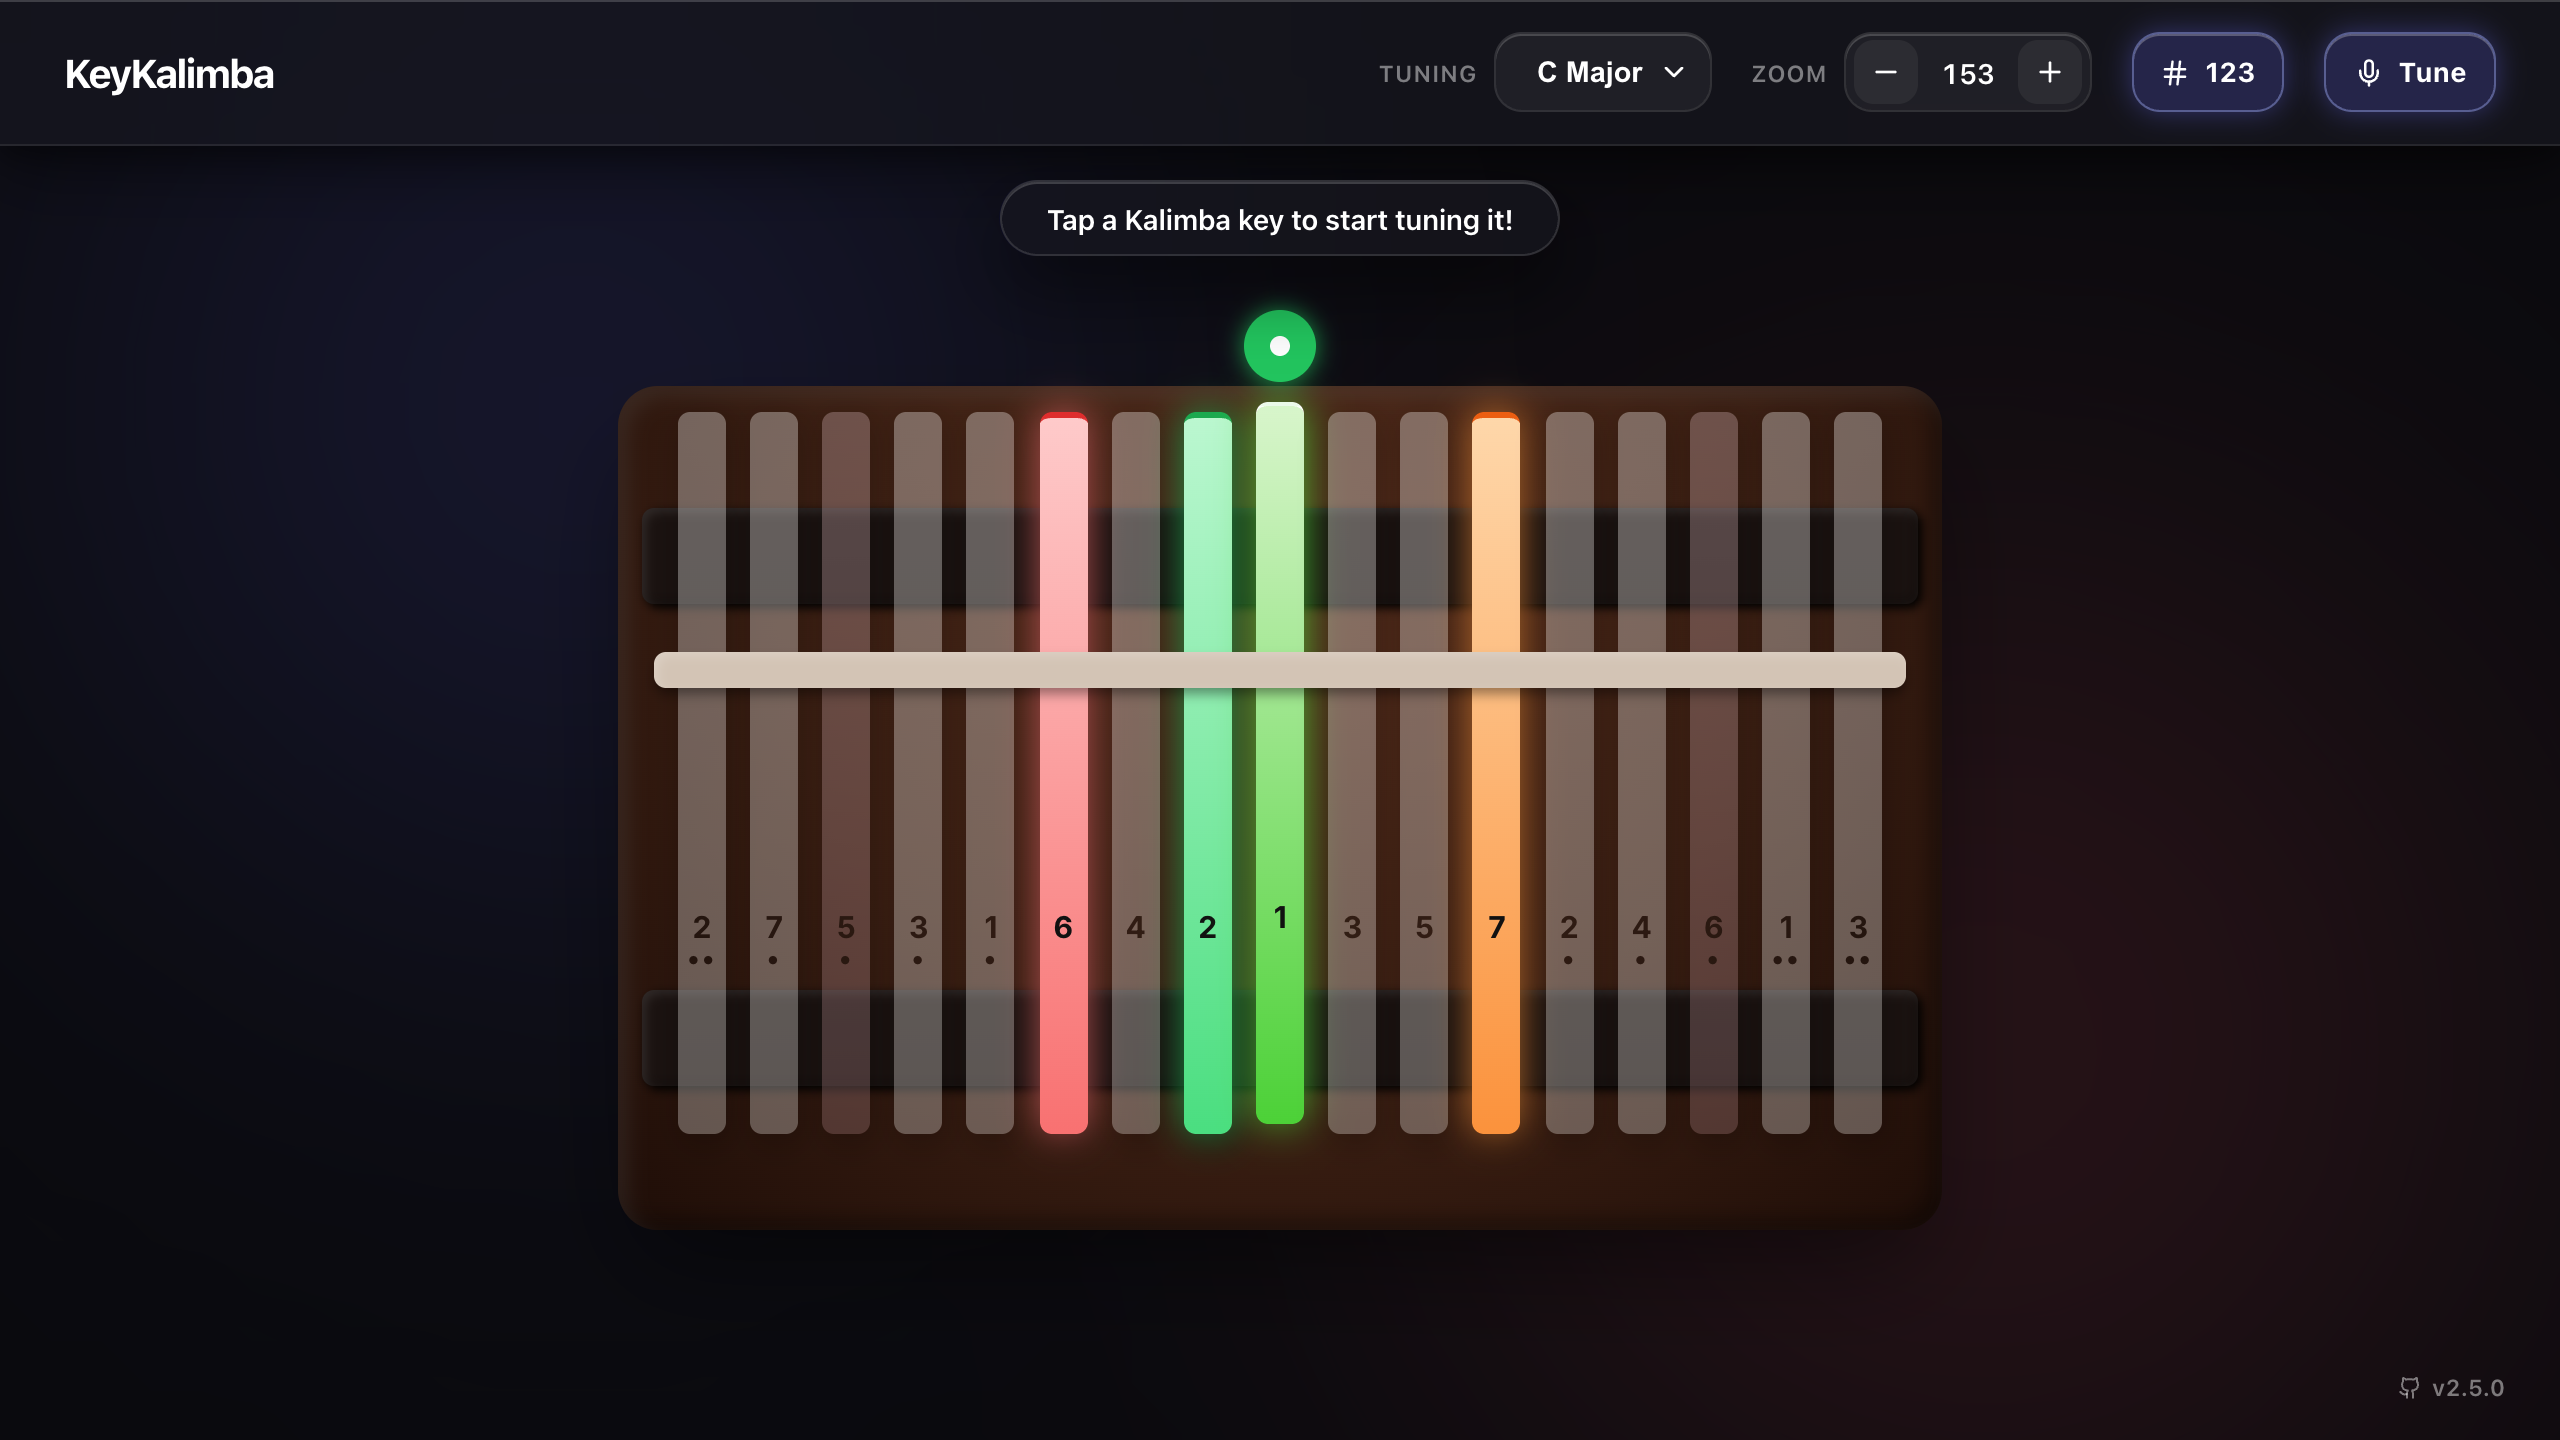
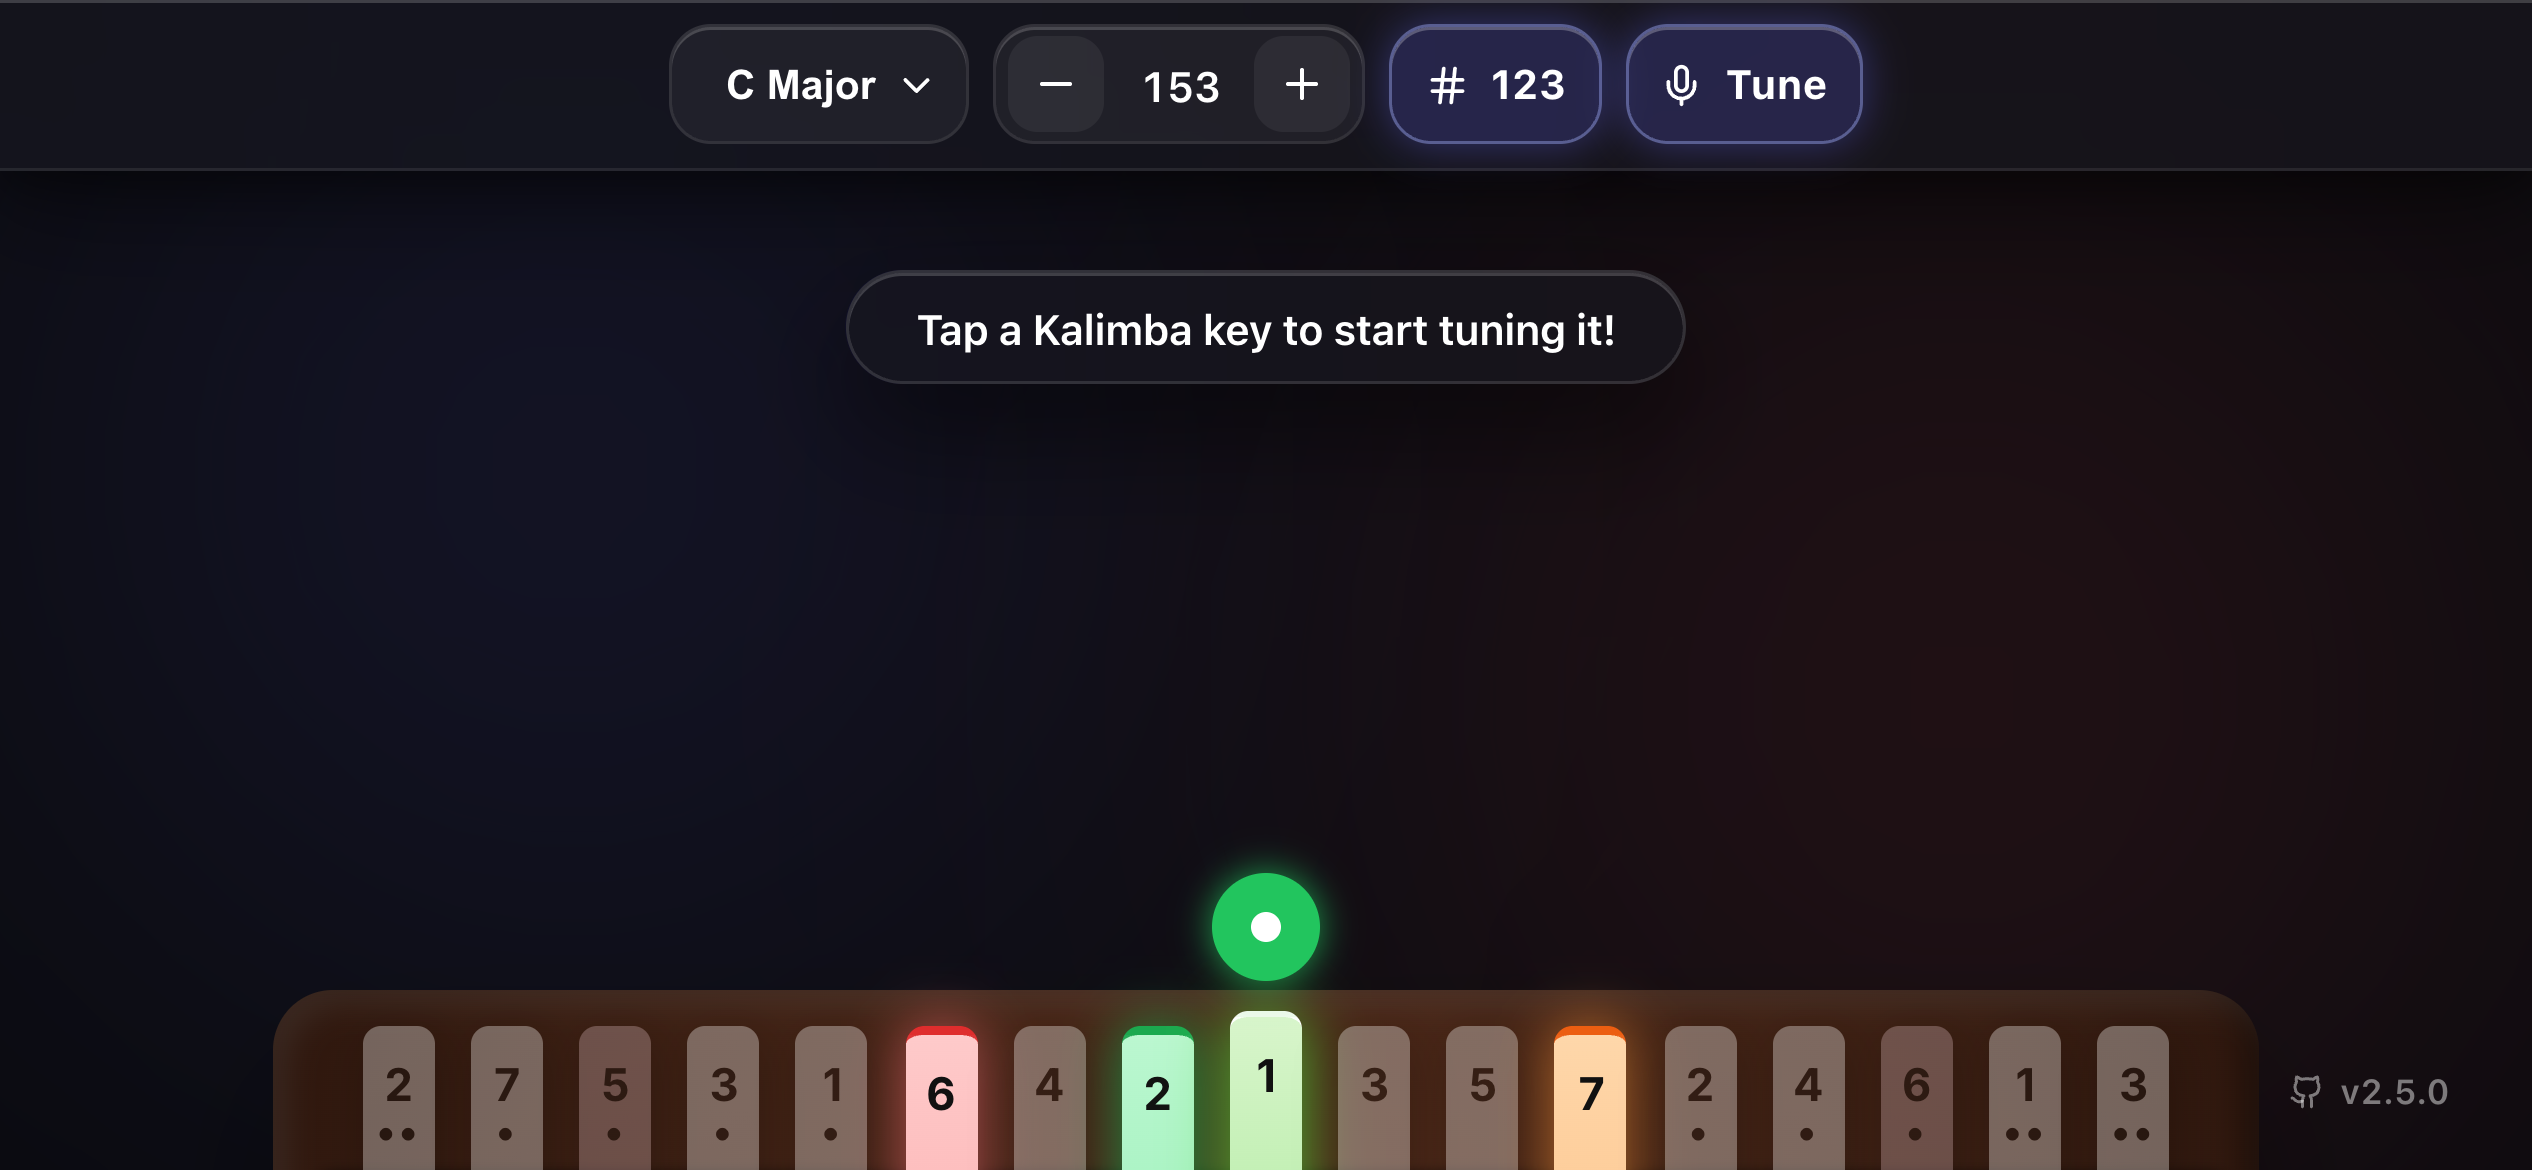
docs: update screenshots to mobile landscape with live falling notes and clean up README emojis
- Recaptured screenshots in authentic iPhone Landscape format (844x390 @ 3x Retina)
- Captured main playing screen with live falling notes and glowing key strikes
- Cleaned up README formatting and removed excess emojis for a timeless presentation

diff --git a/README.md b/README.md
@@ -1,21 +1,21 @@
 # Key Kalimba
 
-**Key Kalimba** is an interactive, web-based 17-key Kalimba trainer and tuner designed for musicians, learners, and hobbyists. Play along with falling notes, load custom MIDI songs, and tune your physical instrument with built-in pitch detection—directly in your browser on desktop, tablet, and mobile.
+**Key Kalimba** is an interactive, web-based 17-key Kalimba trainer and tuner. Play along with falling notes, load custom MIDI songs, and tune your physical instrument with built-in pitch detection—directly in your browser on desktop, tablet, and mobile devices.
 
 ---
 
-## ✨ Features
+## Features
 
-- 🎵 **Falling Notes Visualizer**: Learn songs intuitively with falling note tiles synchronized in real time with high-fidelity acoustic Kalimba audio.
-- 📐 **Physical Instrument Calibration**: Adjust the scale/zoom so the digital tines perfectly match the physical width of your real Kalimba when placed over your screen.
-- 🎼 **Custom MIDI Support**: Import any `.mid` or `.midi` file and practice at your own pace with adjustable tempo and timeline scrubbing.
-- 🎯 **Integrated Kalimba Tuner**: Tune each tine using your device microphone. Real-time pitch tracking guides you with clear visual feedback (in tune, sharp, flat) and tracks your tuning progress across all 17 keys.
-- 🔢 **Customizable Notation**: Toggle numbered musical notation (`1 2 3`) and octave indicators on the tines, and switch between major and alternate tunings (C Major, G Major, F Major, Bb Major, etc.).
-- 📱 **Mobile & PWA Ready**: Optimized for touchscreens and landscape orientation, with offline support for practicing anywhere.
+- **Falling Notes Visualizer**: Learn songs intuitively with falling note tiles synchronized in real time with high-fidelity acoustic Kalimba audio.
+- **Physical Instrument Calibration**: Adjust the scale/zoom so the digital tines perfectly match the physical width of your real Kalimba when placed over your screen.
+- **Custom MIDI Support**: Import any `.mid` or `.midi` file and practice at your own pace with adjustable tempo and timeline scrubbing.
+- **Integrated Kalimba Tuner**: Tune each tine using your device microphone. Real-time pitch tracking guides you with clear visual feedback (in tune, sharp, flat) and tracks your tuning progress across all 17 keys.
+- **Customizable Notation**: Toggle numbered musical notation (`1 2 3`) and octave indicators on the tines, and switch between major and alternate tunings (C Major, G Major, F Major, Bb Major, etc.).
+- **Mobile & PWA Ready**: Optimized for touchscreens and landscape orientation, with offline support for practicing anywhere.
 
 ---
 
-## 📸 Screenshots
+## Screenshots
 
 | Playing Mode | Tuner Mode |
 |:---:|:---:|
@@ -23,7 +23,7 @@
 
 ---
 
-## 🛠 Getting Started
+## Getting Started
 
 ### Prerequisites
 - Node.js 18+ and npm
@@ -48,7 +48,7 @@ npm run build
 
 ---
 
-## 📦 Tech Stack
+## Tech Stack
 
 - **Framework**: [React](https://react.dev/) + [TypeScript](https://www.typescriptlang.org/)
 - **Build Tool**: [Vite](https://vitejs.dev/) + [PWA Plugin](https://vite-pwa-org.netlify.app/)
@@ -57,6 +57,6 @@ npm run build
 
 ---
 
-## 📄 License
+## License
 
 This project is licensed under the [GNU Affero General Public License v3.0](LICENSE).
